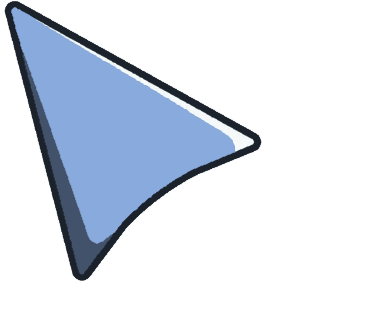
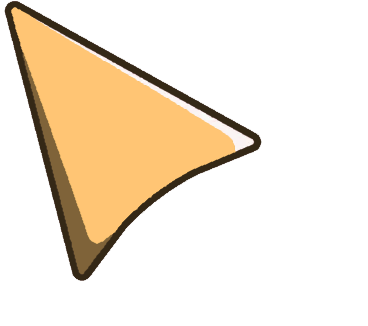
Curseur

Changed region(s): [[0.0, 0.0, 0.7174, 0.8589]]

diff --git a/src/Vue/FenetreJeu.java b/src/Vue/FenetreJeu.java
@@ -72,7 +72,14 @@ public class FenetreJeu extends Container {
     }
 
     public void setStandardCursor(){
-        frame.setCursor(new Cursor(Cursor.DEFAULT_CURSOR));
+        Image cursorImage = Toolkit.getDefaultToolkit().getImage("ressources/Menu/normal_cursor.png");
+
+
+        Toolkit toolkit = Toolkit.getDefaultToolkit();
+        Point hotspot = new Point(0, 0);
+        Cursor idle_cursor = toolkit.createCustomCursor(cursorImage, hotspot, "Custom Cursor");
+
+        frame.setCursor(idle_cursor);
     }
 
     private void initMenu() throws IOException {
